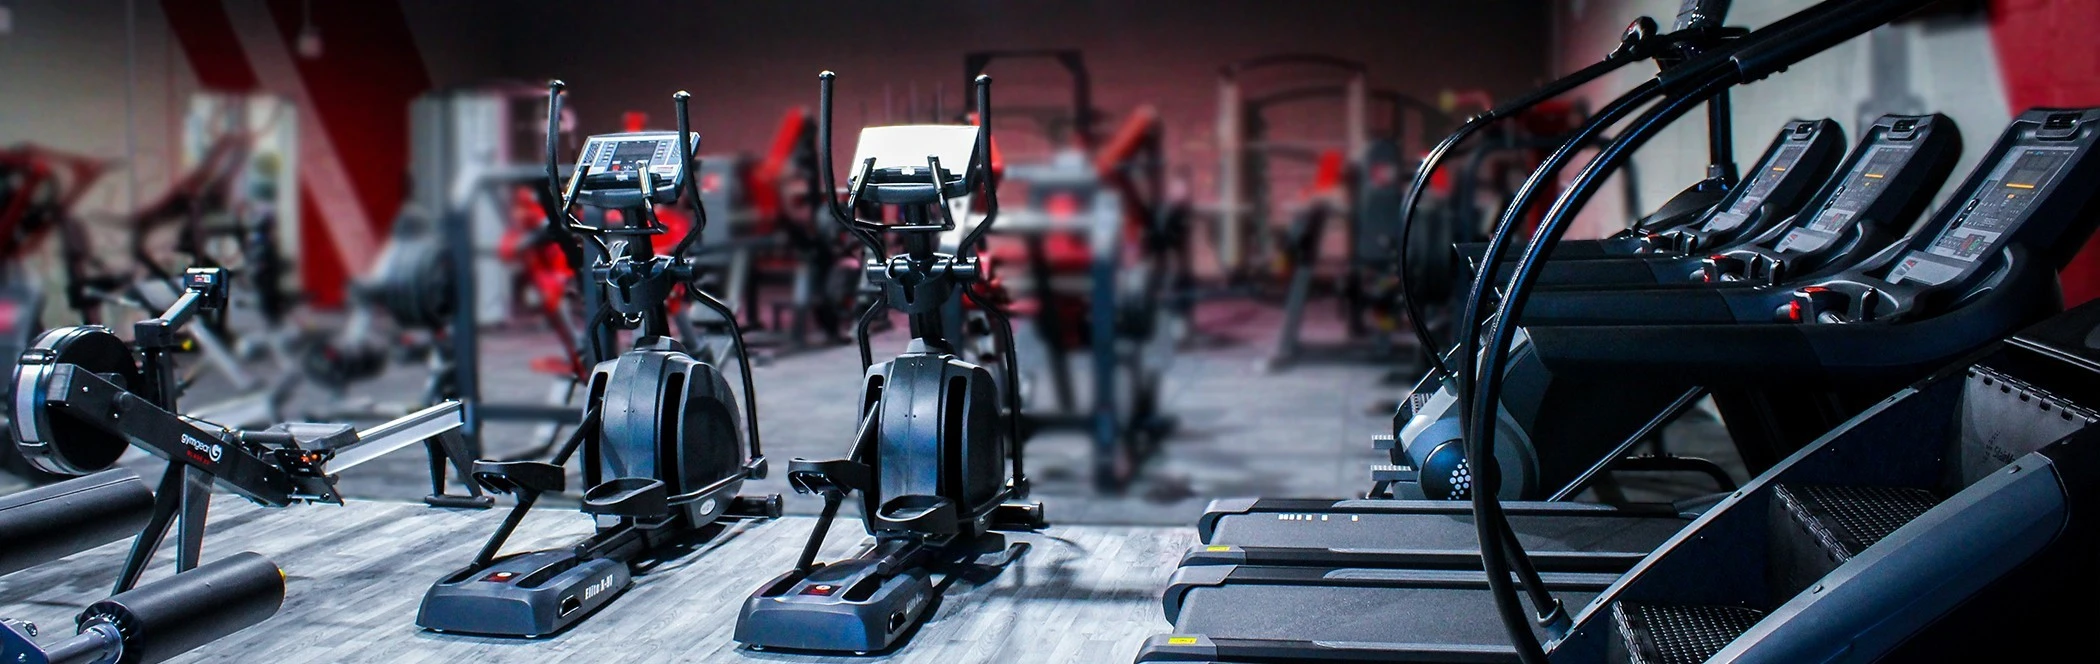
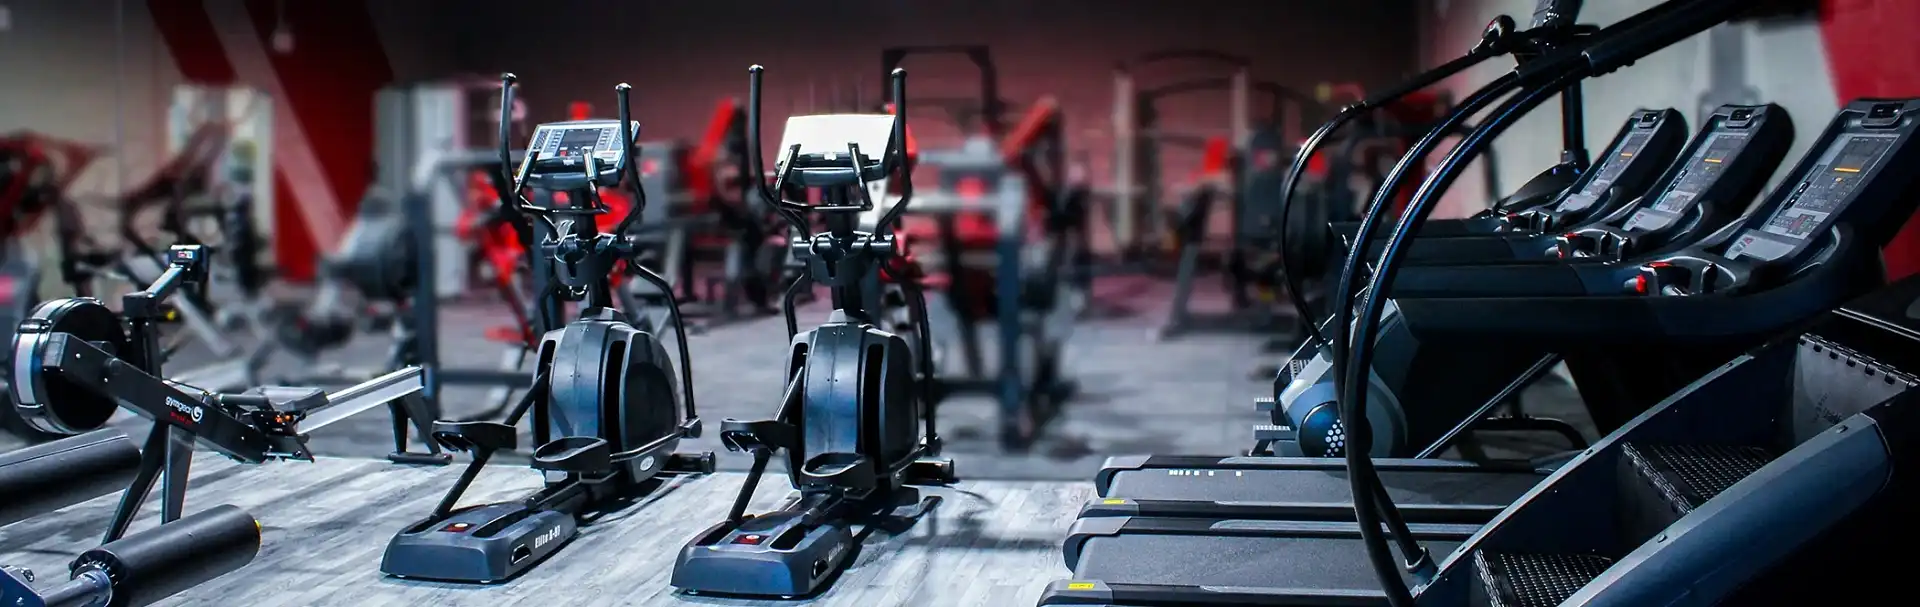
INDEX: Full width image sized for diff devices
To improve performance

Changed region(s): [[0.7188, 0.2965, 0.75, 0.3262]]

diff --git a/assets/css/styles.css b/assets/css/styles.css
@@ -635,7 +635,7 @@ footer {
     text-transform: uppercase;
 }
 
-#footer-phone{
+#footer-phone {
     color: white;
     text-decoration: none;
 }
@@ -977,6 +977,12 @@ footer {
 
 /* Large devices (desktops, between 992-1199px)*/
 @media (max-width: 1199.98px) {
+
+    /*Full width*/
+    #full-width-image {
+        background: url("../images/full-width_1200.webp") no-repeat center top;
+    }
+
     .textbox-cont-text p {
         margin-left: 40px;
         margin-right: 40px;
@@ -999,6 +1005,7 @@ footer {
     }
 
     #full-width-image {
+        background: url("../images/full-width_992.webp") no-repeat center top;
         height: 350px;
         width: 100%;
     }
@@ -1037,6 +1044,7 @@ footer {
     }
 
     #full-width-image {
+        background: url("../images/full-width_768.webp") no-repeat center top;
         height: 300px;
         width: 100%;
     }
@@ -1117,6 +1125,11 @@ footer {
 
 /*X-Small devices (portrait phones, screen size of 575px and less)*/
 @media (max-width: 575.98px) {
+
+    /*Full width image*/
+    #full-width-image {
+        background: url("../images/full-width_576.webp") no-repeat center top;
+    }
 
     /*Testimonial*/
     .testimonial-groups p {
